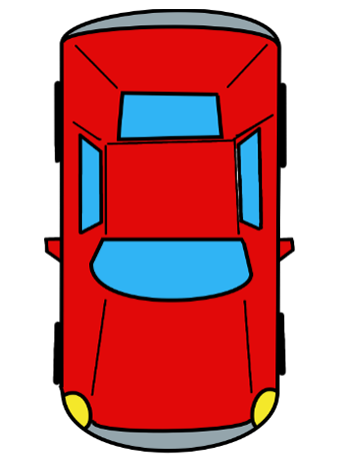
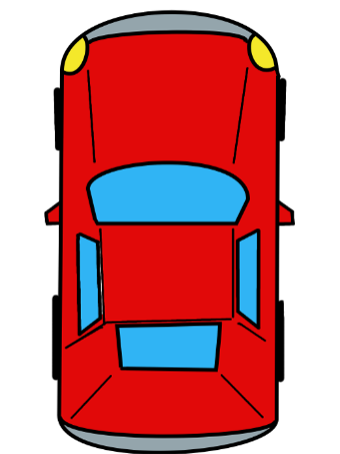
added getCarImage to Car class - added the .png's to resource folder

diff --git a/FinalGroupProject/src/Car.java b/FinalGroupProject/src/Car.java
@@ -21,12 +21,9 @@ import javax.swing.ImageIcon;
 import javax.swing.JPanel;
 import javax.swing.plaf.synth.SynthSeparatorUI;
 
-
-
 public class Car {
 
 	private boolean debug = false;
-	private boolean running = true;
 	private Lane lane;
 	private Graphics g;
 	private Image carImage;
@@ -41,28 +38,24 @@ public class Car {
 	private double maxSpeed = 0.01;
 	private double acceleration = 0.001;
 
-
 	public Car() {
-		Image im1 = Toolkit.getDefaultToolkit().getImage("res/car.png");
-		this.carImage = im1.getScaledInstance(tileSize, tileSize, 1);
+		Image im1 = getCarImage(lane.getDirection());
 	}
 
-	public Car(Lane lane, Graphics g, ArrayList<Cell> occupiedCells,Map map) {
+	public Car(Lane lane, Graphics g, ArrayList<Cell> occupiedCells, Map map) {
 
-		Image im1 = Toolkit.getDefaultToolkit().getImage("res/car.png");
-		this.carImage = im1.getScaledInstance(tileSize * 2, tileSize * 2, 1);
+		Image im = getCarImage(lane.getDirection());
 		this.lane = lane;
 		this.g = g;
-		//this.setLane(lane);
+		this.setLane(lane);
 		this.id = lane.getId();
 		this.currentCell = lane.getStart();
 		this.x0 = currentCell.getCol(); // initial position
 		this.y0 = currentCell.getRow(); // initial position
 		this.occupiedCells = occupiedCells;
-		this.map=map;
+		this.map = map;
 
 	}
-
 
 	/**
 	 * This method is responsible for moving a car. It checks the if the cell in
@@ -72,59 +65,66 @@ public class Car {
 	 * @throws InterruptedException
 	 */
 	public void move() throws InterruptedException {
-       
-		switch(this.getLane().getDirection()){
+
+		switch (this.getLane().getDirection()) {
 		case 0:
 
-	     	if(!map.getCell((int)x0+2,(int)y0).isOccupied()){
-              map.removePosition(x0,y0);
-		      accelerate();
-              map.addPosition(x0,y0);
-	     	}
-			
-	     	break;
+			if (!map.getCell((int) x0 + 2, (int) y0).isOccupied()) {
+
+				map.removePosition(x0, y0);
+				accelerate();
+				map.addPosition(x0, y0);
+//			}else if(!map.getCell((int) x0 + 2, (int) y0).isOccupied() && map.isAgentBeside((int)x0, (int) y0, getLane().getDirection())){
+//				map.removePosition(x0, y0);
+//				switchLanes();
+//				accelerate();
+//				map.addPosition(x0, y0);
+//				System.out.println("Agent is :"  ); 
+			}
+
+			break;
 		case 1:
 
-	     	if(!map.getCell((int)x0-2,(int)y0).isOccupied()){
-            map.removePosition(x0,y0);
-		    accelerate();
-            map.addPosition(x0,y0);
-	     	}
-			
-	     	break;
+			if (!map.getCell((int) x0 - 2, (int) y0).isOccupied()) {
+				map.removePosition(x0, y0);
+				accelerate();
+				map.addPosition(x0, y0);
+			}
+
+			break;
 		case 2:
-	     	if(!map.getCell((int)x0,(int)y0+1).isOccupied()){
-            map.removePosition(x0,y0);
-		    accelerate();
-            map.addPosition(x0,y0);
-	     	}
-	     	break;
+			if (!map.getCell((int) x0, (int) y0 + 1).isOccupied()) {
+				map.removePosition(x0, y0);
+				accelerate();
+				map.addPosition(x0, y0);
+			}
+			break;
 		case 3:
 			// if(!map.getCell((int)x0-1,(int)y0-1).isOccupied()){
-	     	if(!map.getCell((int)x0-2,(int)y0-2).isOccupied()){
-            map.removePosition(x0,y0);
-		    accelerate();
-            map.addPosition(x0,y0);
-	     	}
-	     	break;
-	   	}
+			if (!map.getCell((int) x0 - 1, (int) y0 - 1).isOccupied()) {
+				map.removePosition(x0, y0);
+				accelerate();
+				map.addPosition(x0, y0);
+			}
+			break;
+		}
 	}
 
 	/**
 	 * This method moves the car in a direction. The directions is decided by
-	 * first checking the id of the lane. For an even id, the car is travelling
+	 * first checking the id of the lane.
+	 * For an even id, the car is travelling
 	 * in a northbound or westbound lane. if the id is odd: The car is in a
-	 * southboun/eastbound lane.
+	 * lane travelling in a southboun/eastbound direction.
 	 * 
-	 * //for curved lanes foreach(Cell cell: lane.getCells()) { move your car in
-	 * each cell set cell occupied set previous cell unoccoupied }
 	 * 
-	 * Try to remove the magic numbers => make it more general
+	 * 
+	 * 
 	 * @throws InterruptedException
 	 * 
 	 */
 	private void accelerate() throws InterruptedException {
-		
+
 		// Increase speed by dx/dy (acceleration) in either direction
 		if (speed < maxSpeed) {
 			speed += acceleration;
@@ -136,24 +136,29 @@ public class Car {
 
 		if (isEven(this.id)) {
 
-			if (currentCell.getCol() == lane.getStart().getCol() && lane.getDirection() == 3) {
+			if (currentCell.getCol() == lane.getStart().getCol()
+					&& lane.getDirection() == 3) {
 				y0 -= tileSize * speed;
 				if (debug) {
 					System.out.println("In y0 -= tileSize*speed;");
 				}
-			} else if (currentCell.getRow() == lane.getStart().getRow() && lane.getDirection() == 1) {
+			} else if (currentCell.getRow() == lane.getStart().getRow()
+					&& lane.getDirection() == 1) {
 				x0 -= tileSize * speed;
 				if (debug) {
 					System.out.println("In x0-= tileSize*speed;");
 				}
 			}
 		} else { // ODD
-			if(currentCell.getRow() == lane.getStart().getRow() && lane.getDirection() == 0){
+
+			if (currentCell.getRow() == lane.getStart().getRow()
+					&& lane.getDirection() == 0) {
 				x0 += tileSize * speed;
 				if (debug) {
 					System.out.println("In x0 += tileSize*speed;");
 				}
-			} else if (currentCell.getCol() == lane.getStart().getCol() && lane.getDirection() == 2 ){
+			} else if (currentCell.getCol() == lane.getStart().getCol()
+					&& lane.getDirection() == 2) {
 				y0 += tileSize * speed;
 				if (debug) {
 					System.out.println("In y0 += tileSize*speed;");
@@ -161,17 +166,42 @@ public class Car {
 			}
 		}
 	}
+	
+	
+	
+	/**
+	 * This method is for a vehicle to switch from their current lane to the
+	 * lane next to them
+	 * @throws InterruptedException
+	 */
+	@SuppressWarnings("unused")
+	private void switchLanes() throws InterruptedException {
+
+		if (isEven(this.id)) {
+			
+		} else { // ODD
+
+			if (currentCell.getRow() == lane.getStart().getRow()
+					&& lane.getDirection() == 0) {
+				y0 += tileSize * speed; 
+				x0 += tileSize * speed;
+	
+			} 
+		}
+	}
+	
+	
 
 	/**
-	 * OverLoading the brake method. This tells the thread to sleep for 
-	 * time in seconds. 
+	 * OverLoading the brake method. This tells the thread to sleep for time in
+	 * seconds.
+	 * 
 	 * @param stoppage
 	 * @throws InterruptedException
 	 */
 	@SuppressWarnings("unused")
 	private void brake(int stoppage) throws InterruptedException {
 		Thread.sleep(stoppage * 1000);
-
 	}
 
 	/**
@@ -226,12 +256,36 @@ public class Car {
 		return y0;
 	}
 
+	
+	public Image getCarImage(){
+		return carImage; 
+	}
+	
 	/**
-	 * Returns the Image of the car
+	 * Returns the Image of the car given a direction
 	 * 
 	 * @return
 	 */
-	public Image getCarImage() {
+	public Image getCarImage(int direction) {
+		
+		switch(direction){
+		case 0: 
+			Image im0 = Toolkit.getDefaultToolkit().getImage("res/car0.png");
+			carImage = im0.getScaledInstance(tileSize * 2, tileSize * 2, 1);
+			break; 	
+		case 1: 
+			Image im1 = Toolkit.getDefaultToolkit().getImage("res/car1.png");
+			carImage = im1.getScaledInstance(tileSize * 2, tileSize * 2, 1);
+			break; 
+		case 2:
+			Image im2 = Toolkit.getDefaultToolkit().getImage("res/car2.png");
+			carImage = im2.getScaledInstance(tileSize * 2, tileSize * 2, 1);
+			break;
+		case 3: 
+			Image im3 = Toolkit.getDefaultToolkit().getImage("res/car3.png");
+			carImage = im3.getScaledInstance(tileSize * 2, tileSize * 2, 1);
+			break;
+		}
 		return carImage;
 	}
 
@@ -272,4 +326,3 @@ public class Car {
 	}
 
 }
-
